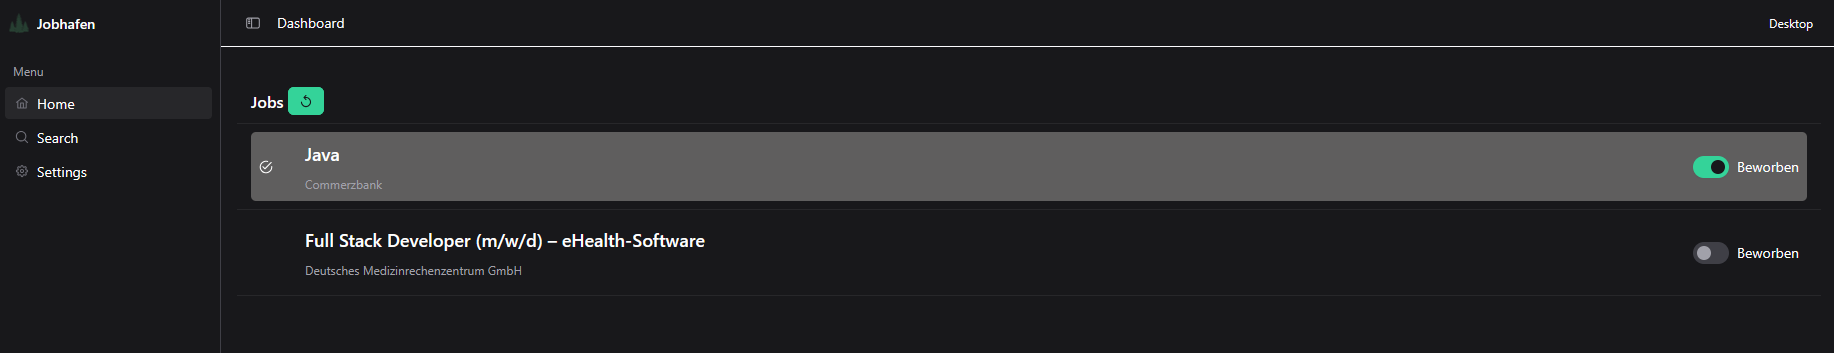
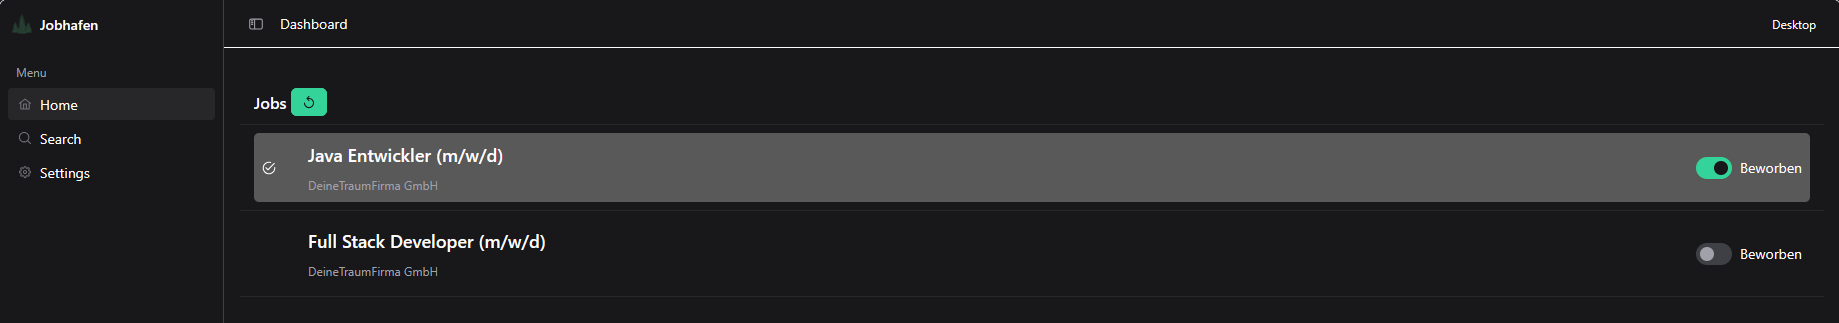
fit: typos

diff --git a/src/components/table-view/table-view.ts b/src/components/table-view/table-view.ts
@@ -50,17 +50,17 @@ export class TableView implements OnInit {
   ngOnInit(): void {
     const test: JobTableRow = {
             id: 1,
-            jobTitle: "Java",
+            jobTitle: "Java Entwickler (m/w/d)",
             applied:true, 
-            companyName:"Commerzbank",
+            companyName:"DeineTraumFirma GmbH",
             companyHomepage: undefined, 
             toogleDisable: false,
           };
     const test1: JobTableRow = {
       id: 2,
-      jobTitle: "Full Stack Developer (m/w/d) – eHealth-Software",
+      jobTitle: "Full Stack Developer (m/w/d)",
       applied:false, 
-      companyName:"Deutsches Medizinrechenzentrum GmbH",
+      companyName:"DeineTraumFirma GmbH",
       companyHomepage: undefined, 
       toogleDisable:false,
     };
